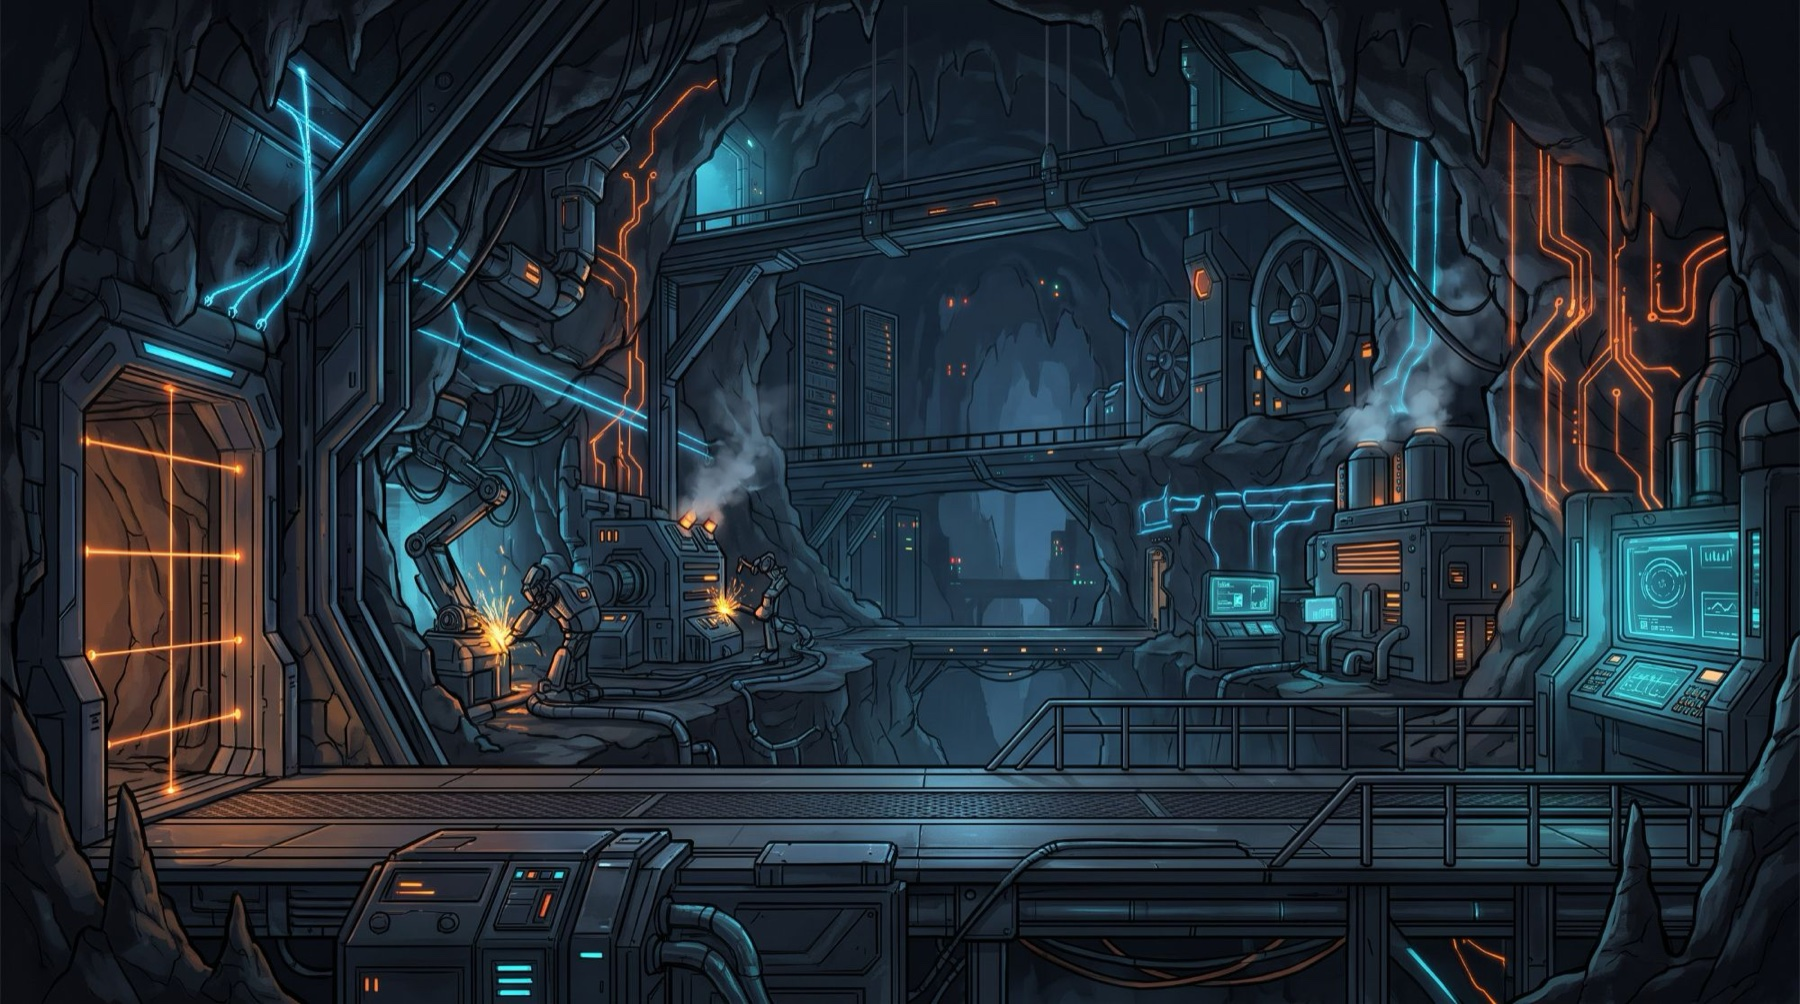
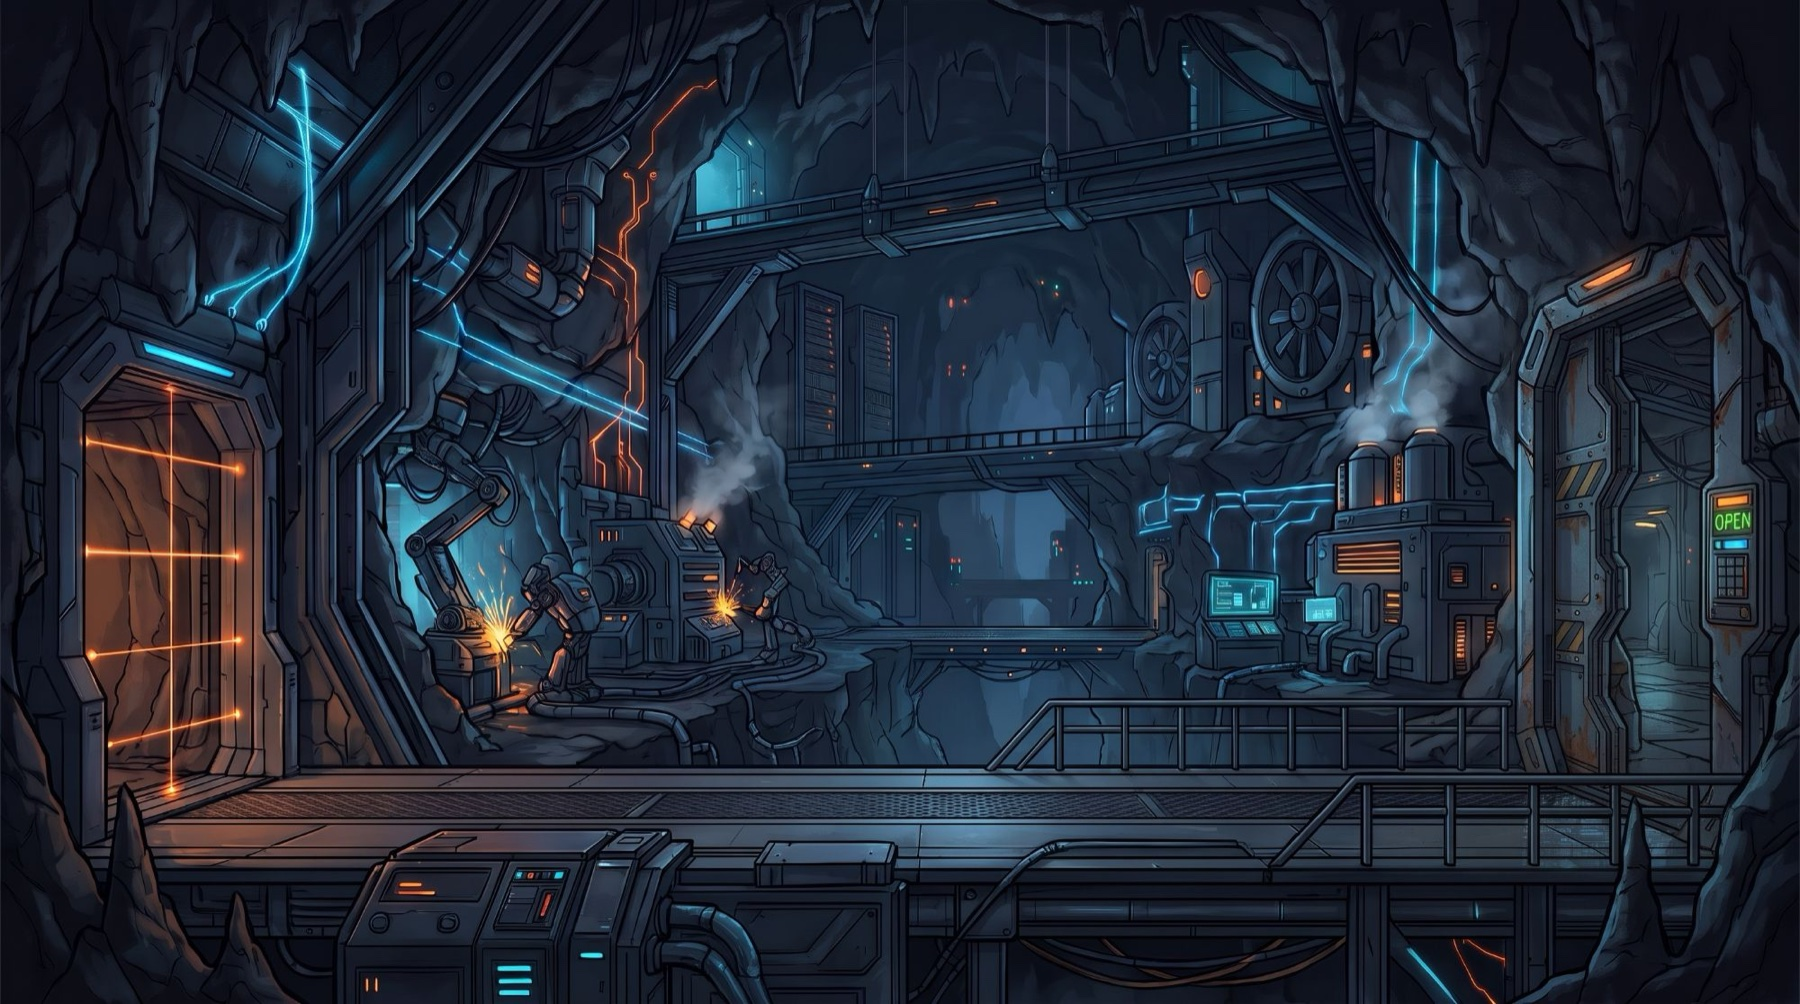
Shut the secret lab's door during Itay's fight, with a metal door sound

diff --git a/index.html b/index.html
@@ -638,6 +638,17 @@
   var sfxIce = new Audio("assets/sfx_ice_break.mp3");
   sfxIce.volume = 0.9 * sfxVol;
   sfxIce.preload = "auto";
+  // Metallic door, played as the lab's east door starts to shut or open.
+  var sfxDoor = new Audio("assets/sfx_door.mp3");
+  sfxDoor.volume = 0.9 * sfxVol;
+  sfxDoor.preload = "auto";
+  function playDoorSound(){
+    try {
+      sfxDoor.currentTime = 0;
+      var p = sfxDoor.play();
+      if (p && p.catch) p.catch(function(){});
+    } catch(e) {}
+  }
   function playIceBreak(){
     try {
       sfxIce.currentTime = 0;
@@ -834,7 +845,7 @@
     function setMuted(m){
       muted = m;
       if (out) out.gain.value = m ? 0 : 0.6 * sfxVol;
-      bgMusic.muted = m; sfxLaugh.muted = m; sfxIce.muted = m;
+      bgMusic.muted = m; sfxLaugh.muted = m; sfxIce.muted = m; sfxDoor.muted = m;
       EXTRA_TRACKS.forEach(function(a){ a.muted = m; });
       try { localStorage.setItem("df_muted", m ? "1" : "0"); } catch(e){}
     }
@@ -844,6 +855,7 @@
       setTrackVolumes();
       sfxLaugh.volume = 0.85 * sfxVol;
       sfxIce.volume = 0.9 * sfxVol;
+      sfxDoor.volume = 0.9 * sfxVol;
     }
     return { init: init, play: play, setMuted: setMuted, setVolumes: setVolumes, isMuted: function(){ return muted; } };
   })();
@@ -984,7 +996,10 @@
    // the prologue: the hero's home village, burning on the night of the attack
    ["village", "assets/village_background.jpg", 1.12, 0.16, "10,6,22"],
    // Itay's Secret Lab: a machine works buried in the ice cave
-   ["lab", "assets/lab_background.jpg", 1.12, 0.22, "4,8,14"]].forEach(function(d){
+   ["lab", "assets/lab_background.jpg", 1.12, 0.22, "4,8,14"],
+   // the same lab with its east door half shut and shut (Itay's fight locks it)
+   ["lab_mid", "assets/lab_door_mid.jpg", 1.12, 0.22, "4,8,14"],
+   ["lab_closed", "assets/lab_door_closed.jpg", 1.12, 0.22, "4,8,14"]].forEach(function(d){
     var im = new Image();
     var entry = { img: im, ready: false, w: 0, h: 0, dim: d[3], frost: !d[4], dimRGB: d[4] };
     im.onload = function(){
@@ -3718,7 +3733,7 @@
 
     // Walking off an edge that has an exit moves to that stage.
     var exits = STAGES[stageIndex].exits || {};
-    if (player.x + player.w >= WORLD_W && player.vx > 0 && exits.right !== undefined){
+    if (player.x + player.w >= WORLD_W && player.vx > 0 && exits.right !== undefined && !labLocked()){
       loadStage(exits.right, "left");
       return;
     }
@@ -4352,8 +4367,23 @@
       kind: "itay", x: stage.itayX || 420, y: GROUND_Y, vx: 0, vy: 0, facing: 1,
       hp: ITAY_HP, maxHp: ITAY_HP, phase2: false, arenaX: stage.arenaX,
       state: "waiting", t: 0, anim: 0, nextAttackIn: 50, fired: 0, slams: 0,
-      hitFlash: 0, invuln: 0, dead_t: 0, alpha: 1, counterT: 0
+      hitFlash: 0, invuln: 0, dead_t: 0, alpha: 1, counterT: 0,
+      door: 0, doorTo: 0, doorHold: 0     // the lab's east door: 0 open, 1 half shut, 2 shut
     };
+  }
+  // while the door is anything but fully open you can't leave
+  function labLocked(){ return !!(boss && boss.kind === "itay" && boss.door > 0); }
+  var DOOR_STEP = 1 / 14, DOOR_HOLD = 12;
+  function updateLabDoor(b, dt){
+    if (b.door === b.doorTo){ b.doorMoving = false; return; }
+    if (!b.doorMoving){ b.doorMoving = true; playDoorSound(); }   // one clang for the whole move, shut or open
+    if (b.doorHold > 0){ b.doorHold -= dt; return; }
+    var dir = b.doorTo > b.door ? 1 : -1, before = b.door;
+    b.door += dir * DOOR_STEP * dt;
+    // pause on the half-way painting, then carry on
+    if ((before < 1 && b.door >= 1) || (before > 1 && b.door <= 1)){ b.door = 1; if (b.doorTo !== 1) b.doorHold = DOOR_HOLD; }
+    if (dir > 0 && b.door >= b.doorTo){ b.door = b.doorTo; shake = Math.max(shake, 10); buzz(60); }
+    if (dir < 0 && b.door <= b.doorTo) b.door = b.doorTo;
   }
   function itayBox(b){ return rect(b.x - 32, b.y - 176, 64, 172); }
   function itayState(b, s){
@@ -4405,6 +4435,7 @@
     if (b.hitFlash > 0) b.hitFlash -= dt;
     if (b.invuln > 0) b.invuln -= dt;
     if (b.counterT > 0) b.counterT -= dt;
+    updateLabDoor(b, dt);
     updateLabAttacks(dt, hitbox);
     if (b.state === "dead"){
       var before = b.dead_t;
@@ -4419,6 +4450,7 @@
       }
       b.alpha = b.dead_t < 100 ? 1 : Math.max(0, 1 - (b.dead_t - 100) / 12);
       if (b.heart) updateTechHeart(b, dt);
+      if (b.dead_t >= 130) b.doorTo = 0;            // beaten: the door slides open again
       return;
     }
     var mul = b.phase2 ? 1.35 : 1;
@@ -4429,7 +4461,7 @@
     switch (b.state){
       case "waiting":
         faceP();
-        if (player.x < b.arenaX){ itayState(b, "intro"); shake = 8; }
+        if (player.x < b.arenaX){ itayState(b, "intro"); shake = 8; b.doorTo = 2; }   // the door slams shut behind you
         break;
       case "intro":
         faceP();
@@ -5365,6 +5397,19 @@
       ctx.restore();
     }
   }
+  // Itay's lab: open -> half shut -> shut (and back), crossfading between
+  // the three paintings as the door moves (boss.door: 0 open .. 2 shut)
+  var LAB_DOOR_ART = ["lab", "lab_mid", "lab_closed"];
+  function drawLabBackdrop(){
+    var d = boss && boss.kind === "itay" ? boss.door : 0;
+    var lo = Math.floor(d), k = d - lo;
+    drawScrollingBackdrop(BACKDROPS[LAB_DOOR_ART[lo]], "lab");
+    if (k > 0 && BACKDROPS[LAB_DOOR_ART[lo + 1]].ready){
+      ctx.save(); ctx.globalAlpha = k;
+      drawScrollingBackdrop(BACKDROPS[LAB_DOOR_ART[lo + 1]], "lab");
+      ctx.restore();
+    }
+  }
   function drawScrollingBackdrop(bd, key){
     if (bd.ready){
       var topY = key ? STAGES[stageIndex].topY : STAGES[FROST_STAGE].topY;
@@ -5410,6 +5455,7 @@
     var backdrop = STAGES[stageIndex].backdrop;
     if (backdrop === "frost"){ drawFrostBackdrop(); return; }
     if (backdrop === "den" || backdrop === "tundra" || backdrop === "village" || STAGES[stageIndex].realm){ drawFrostBackdrop(backdrop); return; }
+    if (backdrop === "lab"){ drawLabBackdrop(); return; }
     if (backdrop && backdrop !== "forest"){
       var bd = BACKDROPS[backdrop];
       if (bd && bd.ready){
@@ -5719,7 +5765,7 @@
     }
     var exits = STAGES[stageIndex].exits || {};
     if (exits.left !== undefined) hint(0, -1);
-    if (exits.right !== undefined) hint(WORLD_W, 1);
+    if (exits.right !== undefined && !labLocked()) hint(WORLD_W, 1);
   }
 
   function drawStageBanner(){

diff --git a/README.md b/README.md
@@ -33,7 +33,7 @@ The route: Ember Hollow, down into the golem's room, beat it, climb the Frozen S
 10. **Haunted Graves** (H): you step out of the portal into a violet graveyard of floating islands over a bottomless void. At the far end the islands climb to a beam of light: jump up out of the top into Shadow Cliffs. Its enemies are **scythe wraiths** (hooded reapers that float over their patch of ground, raise their scythe as a warning, then glide forward and swing) and **wailing ghosts** (they drift between spots, scream, then spit a cursed soul you can swat away); both take two hits. The shadow realm sits far off in the top-right corner of the world map, cut off from the rest of the world.
 11. **Shadow Cliffs** (J): you pop up out of a shaft (drop back down it to return to the graves). Cross broken cliffs over the void, with a high road above, and exit east. Scythe wraiths and wailing ghosts guard the way here too.
 12. **Ruined Cathedral** (K, finish): the **Wraith Knight** (14 hits). It raises its burning sword and lunges (only the sword hurts: jump it or back off, then hit it while it hangs still), gathers lost souls and flings them at you (swat them out of the air), and blinks out to reappear behind you. You can walk through its ghostly body. Once it's destroyed, the ending cinematic plays (skip with the SKIP button, Esc, Enter or Space), then the violet glow lifts (the ruins fade to plain moonlight), the curse on the hero breaks (dark wisps swirl in, a white flash, and he's a young man again) and the portal behind it opens: step through to win.
-- **Itay's Secret Lab** (secret): behind the Frozen Den's ice wall, reached by breaking the wall's lower part and walking west: a machine works buried in the cave, with a steel deck floor and three floating decks (two low, one high between them) that you can jump up through from below. Walk in and **Itay** takes you on: the hardest fight in the game (30 hits). A kid in a powered battle suit, he walks you down and picks from four moves: a palm blaster (the palm glows, then a stream of plasma bolts: swat, jump or dash through them); an energy shield (hits bounce off, and he answers each with a punch and a fan of bolts: wait it out); a jet slam (he crouches, rockets up over you, dives and sends shockwaves both ways: jump them, then hit him while he gets up); and a flying barrage (jet boots on, he rains bolts down from above: climb the decks to reach him). Below half health his suit runs hot: everything is faster, the blaster fires five bolts, the slam comes twice and the barrage fires in pairs. Touching him hurts too. Beaten, he drops to one knee, his suit sparking, and teleports away, leaving his clockwork **heart** behind: it clanks down, rolls across the floor and settles there beating with an electric glow. Touch it to fill your flask. His fight plays **Final Stand**. Walk east to go back.
+- **Itay's Secret Lab** (secret): behind the Frozen Den's ice wall, reached by breaking the wall's lower part and walking west: a machine works buried in the cave, with a steel deck floor and three floating decks (two low, one high between them) that you can jump up through from below. Walk in and the lab's east door slides shut behind you (you can't leave until he's beaten; it slides open again once he's gone), and **Itay** takes you on: the hardest fight in the game (30 hits). A kid in a powered battle suit, he walks you down and picks from four moves: a palm blaster (the palm glows, then a stream of plasma bolts: swat, jump or dash through them); an energy shield (hits bounce off, and he answers each with a punch and a fan of bolts: wait it out); a jet slam (he crouches, rockets up over you, dives and sends shockwaves both ways: jump them, then hit him while he gets up); and a flying barrage (jet boots on, he rains bolts down from above: climb the decks to reach him). Below half health his suit runs hot: everything is faster, the blaster fires five bolts, the slam comes twice and the barrage fires in pairs. Touching him hurts too. Beaten, he drops to one knee, his suit sparking, and teleports away, leaving his clockwork **heart** behind: it clanks down, rolls across the floor and settles there beating with an electric glow. Touch it to fill your flask. His fight plays **Final Stand**. Walk east to go back.
 
 **Max-life flasks**: two small corked bottles are hidden on secret ledges. Each adds a hit to your life flask (it stretches taller) and fills it. One sits at the top right of the very first screen and needs the double jump; the other is at the top right of the Frozen Den and needs a double jump off the highest right-hand ledge followed by a mid-air dash. The portal into the shadow realm stands on that same ledge, right beside it.
 
@@ -42,7 +42,7 @@ Stages are defined in the `STAGES` list in `index.html`; add another entry to ad
 
 ## Sound
 
-Background music, the evil laugh and the cracking ice of the Frozen Den's breakable wall are recorded files. The laugh plays only after you come through a portal: when the village vortex closes behind you, and when each realm's arrival portal bursts. The main theme (`bgmusic.mp3`) plays on the title screen and in most stages. The Burning Village has its own quieter track (`village_music.mp3`), which hands over to the main theme once you step through the vortex. The Magma Golem has its own track, **Volcanous Fury** (`golem_music.mp3`): it starts as soon as the golem is on screen and hands back to the main theme the moment it dies. The Frost Wyrm does the same with its own track (`wyrm_music.mp3`). The Wraith Knight has his own track, **Final Stand** (`boss_music.mp3`), which Itay's fight in the secret lab also uses: it takes over the moment the knight comes into view, pauses with the game, and hands back to the main theme when you leave the cathedral or the ending plays. All other sound effects are synthesized in the browser (Web Audio API), so they need no files: sword swings, imp deaths, getting hurt, lava, jumps and the icy double jump, fire form, stage changes, the golem's roar, fireballs, leap, ground slam, flame breath, stone-crack hits, death and explosion, the heart's splat and distance-based heartbeat, the frost wave, the ability chime, the winged imps' screech, game over and the victory fanfare.
+Background music, the evil laugh, the cracking ice of the Frozen Den's breakable wall and the secret lab's metal door are recorded files. The laugh plays only after you come through a portal: when the village vortex closes behind you, and when each realm's arrival portal bursts. The main theme (`bgmusic.mp3`) plays on the title screen and in most stages. The Burning Village has its own quieter track (`village_music.mp3`), which hands over to the main theme once you step through the vortex. The Magma Golem has its own track, **Volcanous Fury** (`golem_music.mp3`): it starts as soon as the golem is on screen and hands back to the main theme the moment it dies. The Frost Wyrm does the same with its own track (`wyrm_music.mp3`). The Wraith Knight has his own track, **Final Stand** (`boss_music.mp3`), which Itay's fight in the secret lab also uses: it takes over the moment the knight comes into view, pauses with the game, and hands back to the main theme when you leave the cathedral or the ending plays. All other sound effects are synthesized in the browser (Web Audio API), so they need no files: sword swings, imp deaths, getting hurt, lava, jumps and the icy double jump, fire form, stage changes, the golem's roar, fireballs, leap, ground slam, flame breath, stone-crack hits, death and explosion, the heart's splat and distance-based heartbeat, the frost wave, the ability chime, the winged imps' screech, game over and the victory fanfare.
 
 The golem's roar and death can use recorded files instead: set their paths in `SFX_FILES` in `index.html` and they replace the synthesized versions once loaded.
 
@@ -103,7 +103,7 @@ assets/          all sprite sheets, art, and audio referenced by index.html
 | `ice_wall_1.webp`–`ice_wall_5.webp` | Frozen Den west wall: icicled cliff stacked up the stage's left edge (`leftWall` in the stage data). 1 is the intact wall (the upper part); the lower section starts at 2, already cracked, and goes 3, 4, 5 with each hit |
 | `itay_*.webp` | Itay, the secret boss: `idle0-2`, `shield`, `charge`, `fist` (facing you), `walk0-4`, `blast0-4` (flying and shooting; cut off at the thighs, so they're drawn over jet flames), `jet0-4` (crouch, launch, flying), all facing right |
 | `itay_heart_beat0-4.webp`, `itay_heart_roll0-5.webp` | Itay's clockwork heart: the beating loop (sitting on the floor) and the rolling loop |
-| `lab_background.jpg` | Itay's Secret Lab (secret) backdrop: machine works in a cave |
+| `lab_background.jpg`, `lab_door_mid.jpg`, `lab_door_closed.jpg` | Itay's Secret Lab (secret) backdrop: machine works in a cave, with its east door open, half shut and shut (crossfaded as the door moves) |
 | `plat_lab_long.png` | Itay's Secret Lab floor: railed steel deck, tiled for the ground |
 | `plat_lab_deck.png` | Itay's Secret Lab floating decks |
 | `village_background.jpg` | Burning Village (prologue) backdrop |
@@ -122,6 +122,7 @@ assets/          all sprite sheets, art, and audio referenced by index.html
 | `bgmusic.mp3` | Background music, starts on load |
 | `sfx_laugh.mp3` | Evil-laugh sound effect, played after passing through a portal |
 | `sfx_ice_break.mp3` | Cracking-ice sound effect, played on every hit to the Frozen Den's breakable wall |
+| `sfx_door.mp3` | Metallic door sound, played as the secret lab's door shuts and opens |
 
 ## Testing shortcuts (remove before going live)
 
